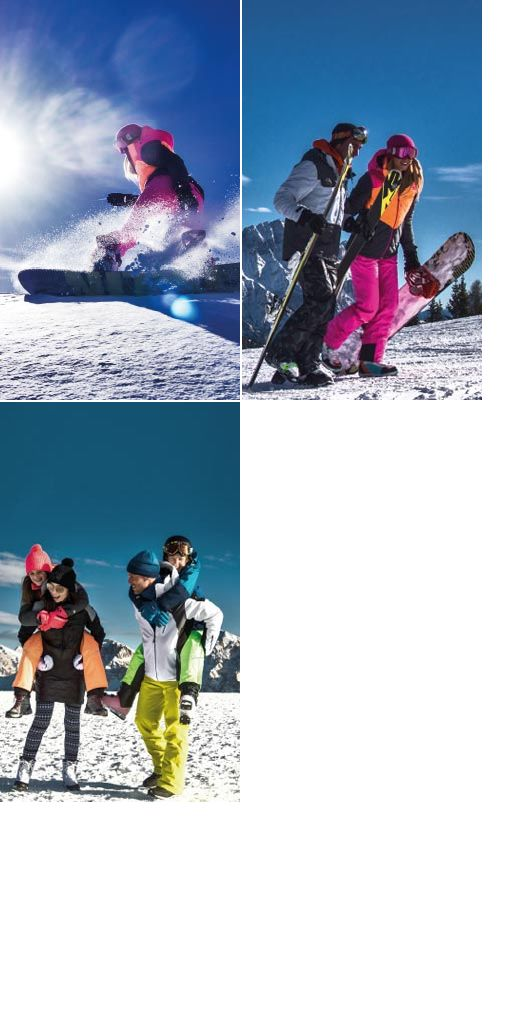
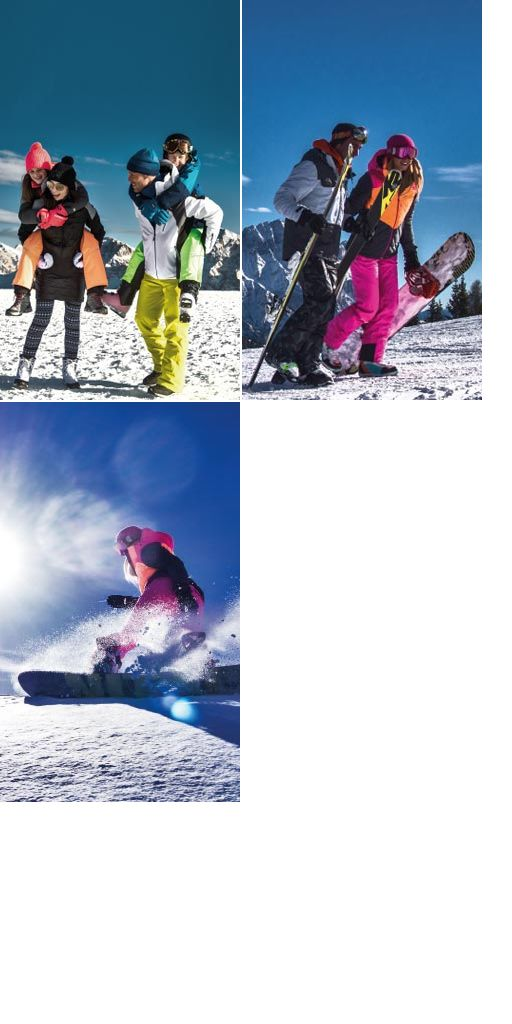
Update

diff --git a/banners/icepeak2/gismeteo/240x400/240x400.js b/banners/icepeak2/gismeteo/240x400/240x400.js
@@ -3,7 +3,7 @@
 var p; // shortcut to reference prototypes
 lib.ssMetadata = [
 		{name:"240x400_atlas_P_", frames: [[0,276,201,43],[0,205,198,69],[0,104,151,99],[0,0,148,102]]},
-		{name:"240x400_atlas_NP_", frames: [[0,402,240,400],[242,0,240,400],[0,0,240,400]]}
+		{name:"240x400_atlas_NP_", frames: [[0,0,240,400],[242,0,240,400],[0,402,240,400]]}
 ];
 
 
@@ -182,10 +182,9 @@ function getMCSymbolPrototype(symbol, nominalBounds, frameBounds) {
 	this.instance = new lib.Символ7();
 	this.instance.parent = this;
 	this.instance.setTransform(120.5,336.5,1,0.1,0,0,0,0,0.5);
-	this.instance.alpha = 0;
 	this.instance._off = true;
 
-	this.timeline.addTween(cjs.Tween.get(this.instance).wait(162).to({_off:false},0).to({regY:0,scaleY:1,alpha:1},8,cjs.Ease.get(1)).wait(61).to({regY:0.5,scaleY:0.1,alpha:0},8,cjs.Ease.get(1)).wait(1));
+	this.timeline.addTween(cjs.Tween.get(this.instance).wait(162).to({_off:false},0).to({regY:0,scaleY:1},8,cjs.Ease.get(1)).wait(61).to({regY:0.5,scaleY:0.1,alpha:0},8,cjs.Ease.get(1)).wait(1));
 
 	// Layer 1
 	this.instance_1 = new lib.Символ6();
@@ -199,11 +198,10 @@ function getMCSymbolPrototype(symbol, nominalBounds, frameBounds) {
 	// Layer 1
 	this.instance_2 = new lib.Символ5();
 	this.instance_2.parent = this;
-	this.instance_2.setTransform(120.5,15.5,1,1,15);
-	this.instance_2.alpha = 0;
+	this.instance_2.setTransform(120.6,-44.5);
 	this.instance_2._off = true;
 
-	this.timeline.addTween(cjs.Tween.get(this.instance_2).wait(76).to({_off:false},0).to({rotation:0,y:65.5,alpha:1},8,cjs.Ease.get(1)).wait(62).to({scaleX:0.8,scaleY:0.8,y:75.5,alpha:0},7,cjs.Ease.get(1)).to({_off:true},1).wait(86));
+	this.timeline.addTween(cjs.Tween.get(this.instance_2).wait(75).to({_off:false},0).wait(1).to({rotation:0.9,x:120.5,y:-43.6,alpha:0.998},0).wait(1).to({rotation:3.7,y:-40.6,alpha:0.992},0).wait(1).to({rotation:8.7,y:-35.3,alpha:0.98},0).to({y:58.7},8,cjs.Ease.get(-1)).to({regX:0.1,regY:0.1,rotation:-3.4,x:120.6,y:62.3,alpha:1},2).to({regX:0,regY:0,rotation:0,x:120.5,y:64.5},2).wait(56).to({y:65.5},0).to({scaleX:0.8,scaleY:0.8,y:75.5,alpha:0},7,cjs.Ease.get(1)).to({_off:true},1).wait(86));
 
 	// Layer 1
 	this.instance_3 = new lib.Символ4();
@@ -248,8 +246,8 @@ lib.properties = {
 	color: "#FFFFFF",
 	opacity: 1.00,
 	manifest: [
-		{src:"images/240x400_atlas_P_.png?1507882346285", id:"240x400_atlas_P_"},
-		{src:"images/240x400_atlas_NP_.jpg?1507882346285", id:"240x400_atlas_NP_"}
+		{src:"images/240x400_atlas_P_.png?1507897584110", id:"240x400_atlas_P_"},
+		{src:"images/240x400_atlas_NP_.jpg?1507897584110", id:"240x400_atlas_NP_"}
 	],
 	preloads: []
 };

diff --git a/banners/icepeak2/gismeteo/240x400/240x400.html b/banners/icepeak2/gismeteo/240x400/240x400.html
@@ -14,7 +14,7 @@
 <title>240x400</title>
 <!-- write your code here -->
 <script src="https://code.createjs.com/createjs-2015.11.26.min.js"></script>
-<script src="240x400.js?1507882346294"></script>
+<script src="240x400.js?1507897584118"></script>
 <script>
 var canvas, stage, exportRoot, anim_container, dom_overlay_container, fnStartAnimation;
 function init() {
